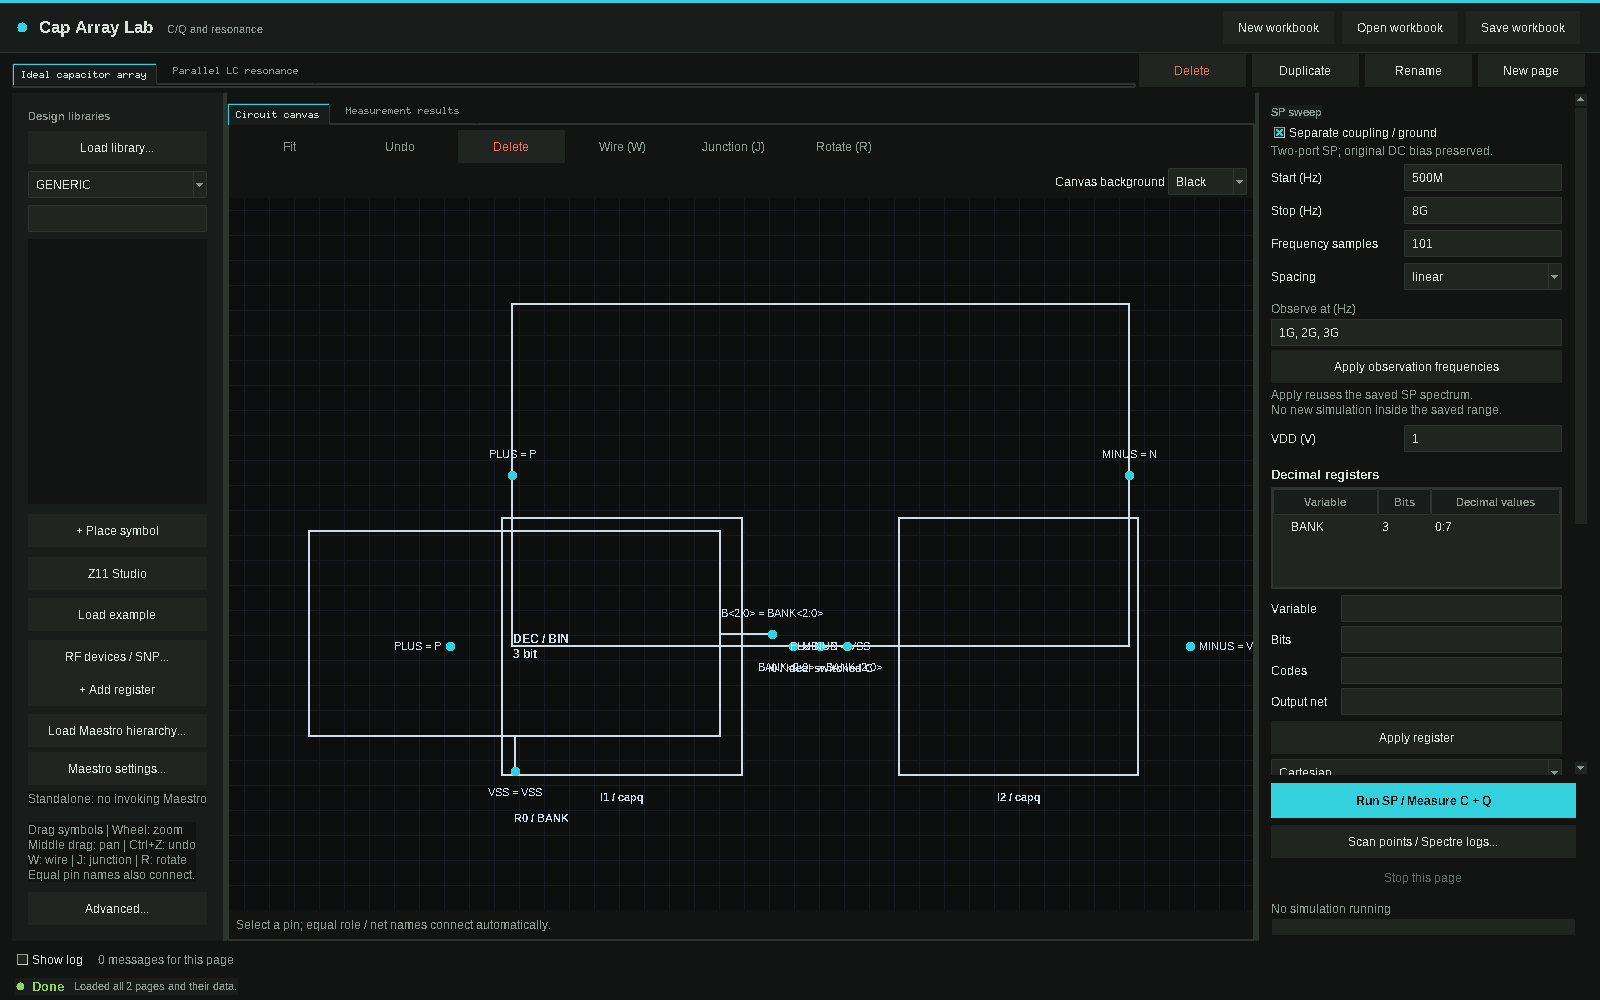
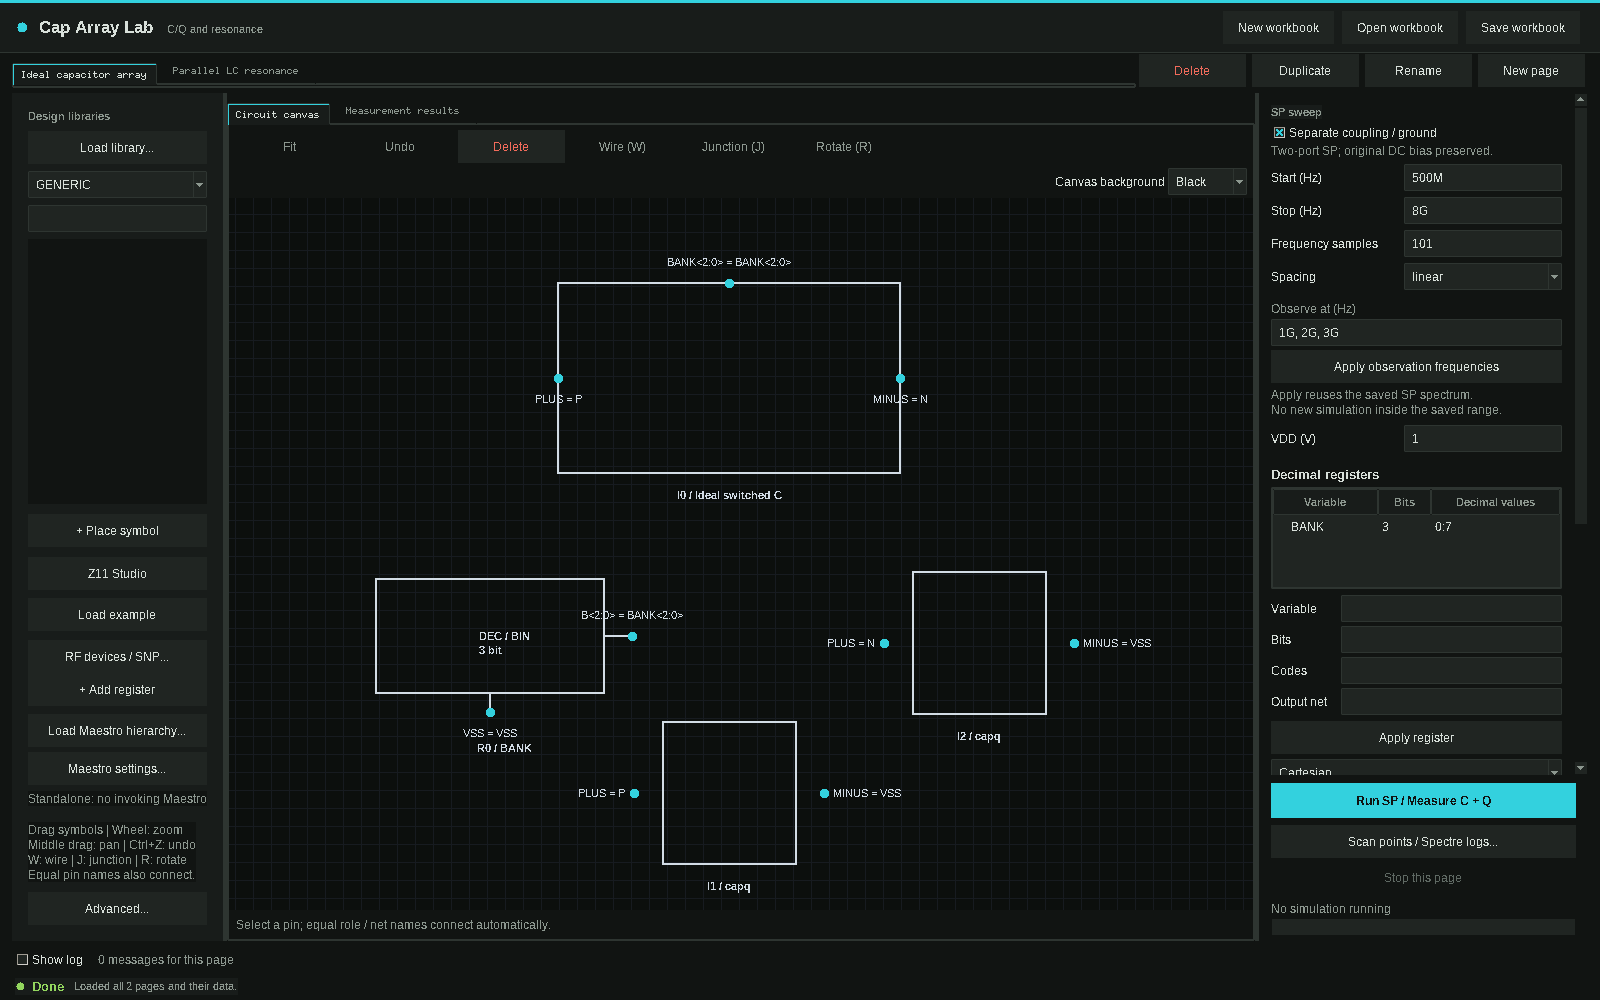
fix: clarify example canvas layout and button styles

diff --git a/caplab/demo.py b/caplab/demo.py
@@ -38,14 +38,14 @@ def project(resonator=False):
     p=new_project();p.update(workspace='',library='GENERIC',reference={'library':'GENERIC','cell':'ideal_array'},demo_model='resonator' if resonator else 'array')
     p['settings'].update(frequencies='1G, 2G, 3G',simulation_start='500M',simulation_stop='8G',simulation_points='101',simulation_sweep='linear')
     symbol={'library':'GENERIC','cell':'Ideal switched C','bbox':[-1.8,-1,1.8,1],
-            'pins':[{'name':'PLUS','xy':[-1.8,0]},{'name':'MINUS','xy':[1.8,0]},{'name':'BANK<2:0>','xy':[0,-1]}],
+            'pins':[{'name':'PLUS','xy':[-1.8,0]},{'name':'MINUS','xy':[1.8,0]},{'name':'BANK<2:0>','xy':[0,1]}],
             'shapes':[{'kind':'rect','points':[-1.8,-1,1.8,1]}]}
-    node=add_instance(p,symbol,x=500,y=210);node['roles']={'PLUS':'P','MINUS':'N','BANK<0>':'BANK<0>','BANK<1>':'BANK<1>','BANK<2>':'BANK<2>'}
-    add_register(p,'BANK',3,'0:7',x=190,y=400)
-    for net,x in [('P',280),('N',720)]:
-        n=create_passive(p,'capq',x=x,y=400,props={'c':'100f','q':'80','fq':'1G'});n['roles']={'PLUS':net,'MINUS':'VSS'}
+    node=add_instance(p,symbol,x=700,y=220);node['roles']={'PLUS':'P','MINUS':'N','BANK<0>':'BANK<0>','BANK<1>':'BANK<1>','BANK<2>':'BANK<2>'}
+    add_register(p,'BANK',3,'0:7',x=250,y=750)
+    for net,x,y in [('P',700,1050),('N',1200,750)]:
+        n=create_passive(p,'capq',x=x,y=y,props={'c':'100f','q':'80','fq':'1G'});n['roles']={'PLUS':net,'MINUS':'VSS'}
     if resonator:
-        n=create_passive(p,'indq',x=500,y=540,props={'l':'2n','q':'1000000'});n['roles']={'PLUS':'P','MINUS':'N'}
+        n=create_passive(p,'indq',x=700,y=1500,props={'l':'2n','q':'1000000'});n['roles']={'PLUS':'P','MINUS':'N'}
     raw=spectrum(resonator);p['private']={'spectrum':raw,'spectrum_data_sha256':_hash(raw)}
     return p
 
@@ -59,7 +59,8 @@ def make_workbook():
     second=add_page(book,'Parallel LC resonance');second['id']='lc_resonance';second['project']=project(True)
     for page in book['pages']:
         p=page['project'];page['result']=cache(resample(p['private']['spectrum'],p['settings']['frequencies']),digest(p),'cartesian');page['result']['analysis']='sp'
-        page['axis']='BANK';page['editor']={'tab':'results','zoom':1,'pan':[0,0]}
+        page['axis']='BANK';page['editor']={'tab':'results','zoom':.5,'pan':[150,70]}
+        if p['demo_model']=='resonator':page['editor'].update(zoom=.35,pan=[200,35])
         page['measurement_view']='Resonance' if p['demo_model']=='resonator' else 'Capacitance'
     book['active_page']=first['id'];book['appearance']={'canvas':'black','plot':'black'}
     book['description']='Synthetic analytic replay only; no PDK or native simulation data. See examples/README.md.'

diff --git a/caplab/ui.py b/caplab/ui.py
@@ -76,7 +76,6 @@ class App(tk.Tk):
         self.font_family=tkfont.nametofont('TkDefaultFont').actual('family')
         style=ttk.Style(self)
         style.configure('Muted.TLabel',foreground=fw.DIM)
-        style.configure('Accent.TButton',padding=(12,6))
 
     def _screen_surface(self):
         self.surface=self
@@ -116,7 +115,7 @@ class App(tk.Tk):
         self.search.trace_add('write',lambda *a:self.filter_cells())
         self.cells=tk.Listbox(left,bg=BG,fg=INK,selectbackground='#34576a',highlightthickness=0,borderwidth=0,font=(self.font_family,10),width=23,exportselection=False)
         self.cells.pack(fill='both',expand=True);self.cells.bind('<Double-1>',lambda e:self.add_selected())
-        self.addsymbolbutton=ttk.Button(left,text='+ Place symbol',style='Accent.TButton',command=self.add_selected);self.addsymbolbutton.pack(fill='x',pady=(10,6))
+        self.addsymbolbutton=ttk.Button(left,text='+ Place symbol',command=self.add_selected);self.addsymbolbutton.pack(fill='x',pady=(10,6))
         self.rf_controls=RFControls(self);self.rf_controls.attach(top,left)
         self.addregbutton=ttk.Button(left,text='+ Add register',command=self.add_register_node);self.addregbutton.pack(fill='x')
         self.hierarchybutton=ttk.Button(left,text='Load Maestro hierarchy...',command=lambda:hierarchy_dialog(self));self.hierarchybutton.pack(fill='x',pady=(8,0))
@@ -1080,7 +1079,7 @@ class App(tk.Tk):
                 if inst['view']!=view:self.override_instance_binding(inst,view)
             if changed:self.project.pop('config_template',None)
             self.fill_pins();self.redraw();win.destroy()
-        ttk.Button(box,text='Apply settings',command=apply,style='Accent.TButton').pack(fill='x',pady=8)
+        ttk.Button(box,text='Apply settings',command=apply,style='Primary.TButton').pack(fill='x',pady=8)
         ttk.Button(box,text='Maestro settings...',command=lambda:runtime_dialog(self)).pack(fill='x',pady=3)
         ttk.Button(box,text='Open source config in Virtuoso...',command=self.open_source_config).pack(fill='x',pady=3)
         private=self.project.get('private')
